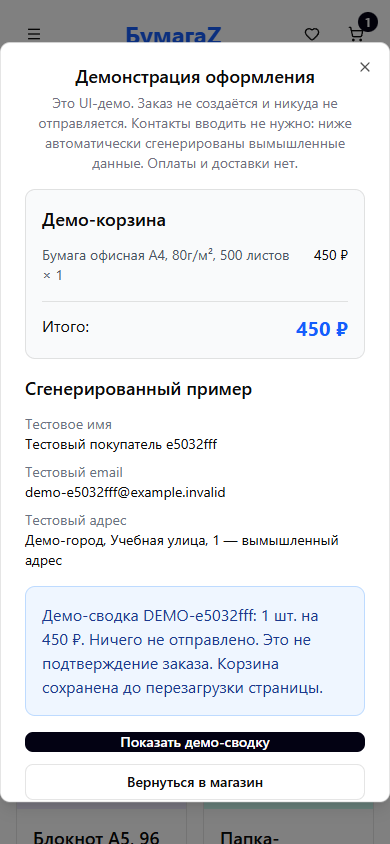
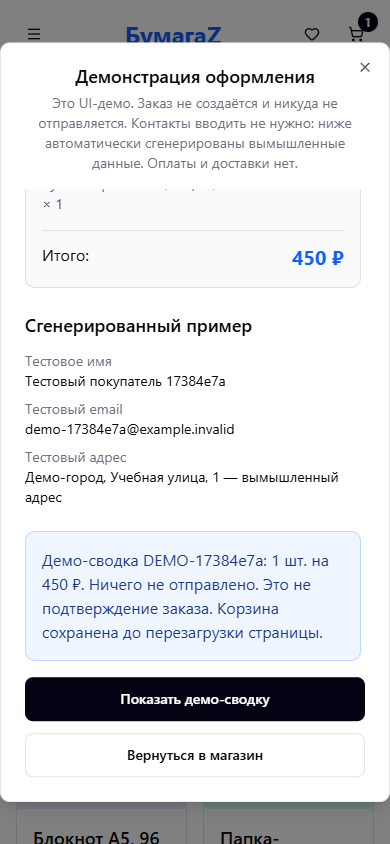
fix: keep mobile checkout actions visible while its content scrolls

diff --git a/src/app/components/Checkout.tsx b/src/app/components/Checkout.tsx
@@ -14,14 +14,15 @@ export function Checkout({ isOpen, onClose, items, total }: CheckoutProps) {
   }, [isOpen]);
   return (
     <Dialog open={isOpen} onOpenChange={(open) => { if (!open) onClose(); }}>
-      <DialogContent className="max-w-2xl max-h-[90vh] overflow-y-auto">
-        <DialogHeader>
+      <DialogContent className="max-w-2xl max-h-[90vh] flex flex-col overflow-hidden">
+        <DialogHeader className="shrink-0">
           <DialogTitle>Демонстрация оформления</DialogTitle>
           <DialogDescription>
             Это UI-демо. Заказ не создаётся и никуда не отправляется. Контакты вводить не нужно:
             ниже автоматически сгенерированы вымышленные данные. Оплаты и доставки нет.
           </DialogDescription>
         </DialogHeader>
+        <div className="min-h-0 overflow-y-auto space-y-6 pr-1" aria-label="Прокручиваемая демо-сводка" tabIndex={0}>
         <section className="border rounded-lg p-4 bg-gray-50" aria-label="Состав демо-покупки">
           <h3 className="mb-3">Демо-корзина</h3>
           <ul className="space-y-2 mb-4">
@@ -44,9 +45,10 @@ export function Checkout({ isOpen, onClose, items, total }: CheckoutProps) {
           Демо-сводка {customer.reference}: {items.reduce((sum, item) => sum + item.quantity, 0)} шт. на {total} ₽.
           Ничего не отправлено. Это не подтверждение заказа. Корзина сохранена до перезагрузки страницы.
         </p>}
-        <div className="flex flex-col sm:flex-row gap-3">
-          <Button type="button" className="flex-1" size="lg" disabled={!items.length} onClick={() => setShowSummary(true)}>Показать демо-сводку</Button>
-          <Button type="button" variant="outline" onClick={onClose}>Вернуться в магазин</Button>
+        </div>
+        <div className="shrink-0 flex flex-col sm:flex-row gap-3">
+          <Button type="button" className="w-full min-h-11 shrink-0 sm:flex-1" size="lg" disabled={!items.length} onClick={() => setShowSummary(true)}>Показать демо-сводку</Button>
+          <Button type="button" className="min-h-11 shrink-0" variant="outline" onClick={onClose}>Вернуться в магазин</Button>
         </div>
       </DialogContent>
     </Dialog>
